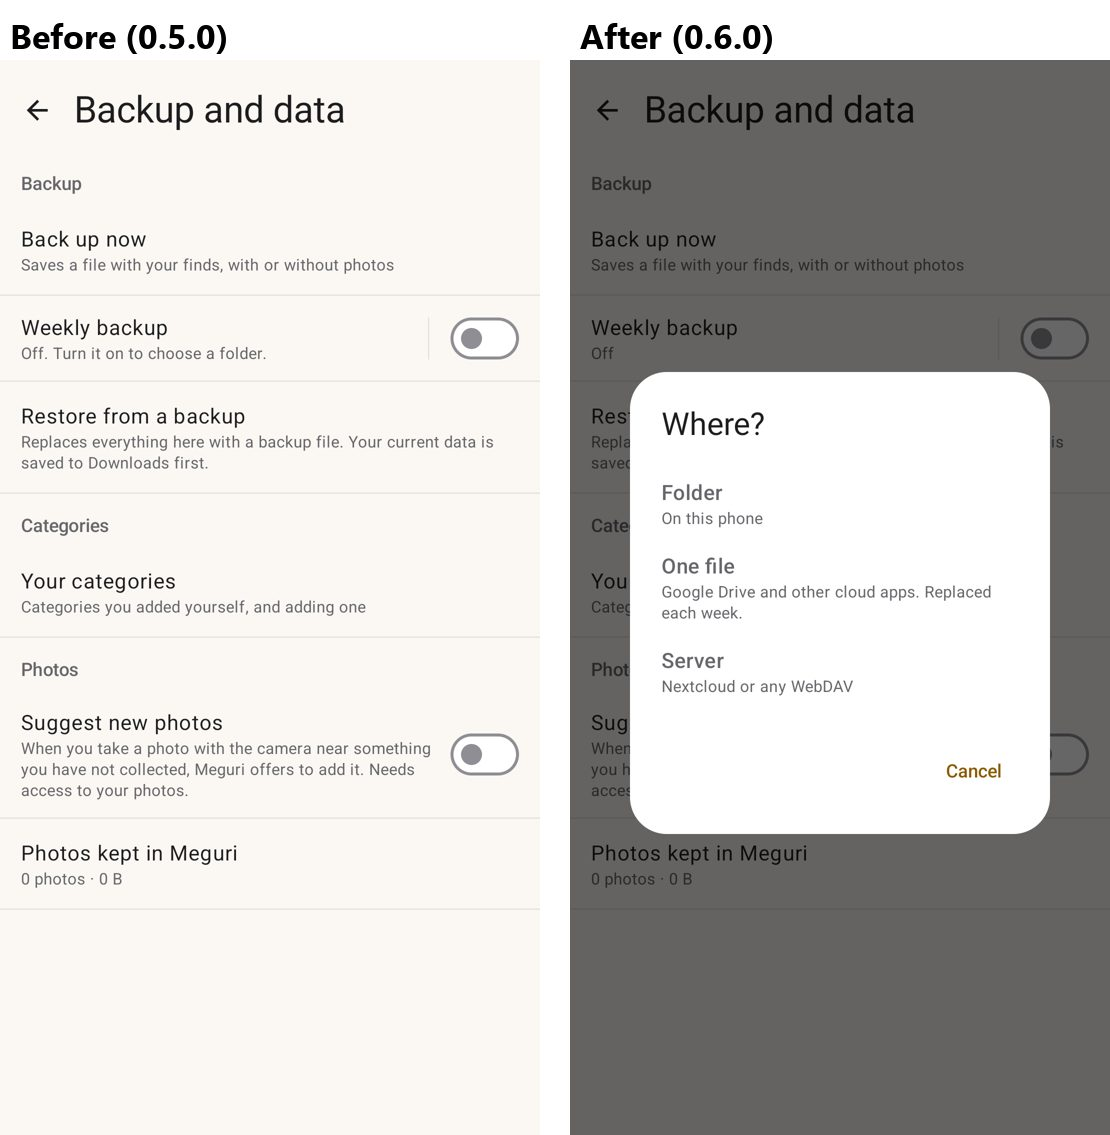
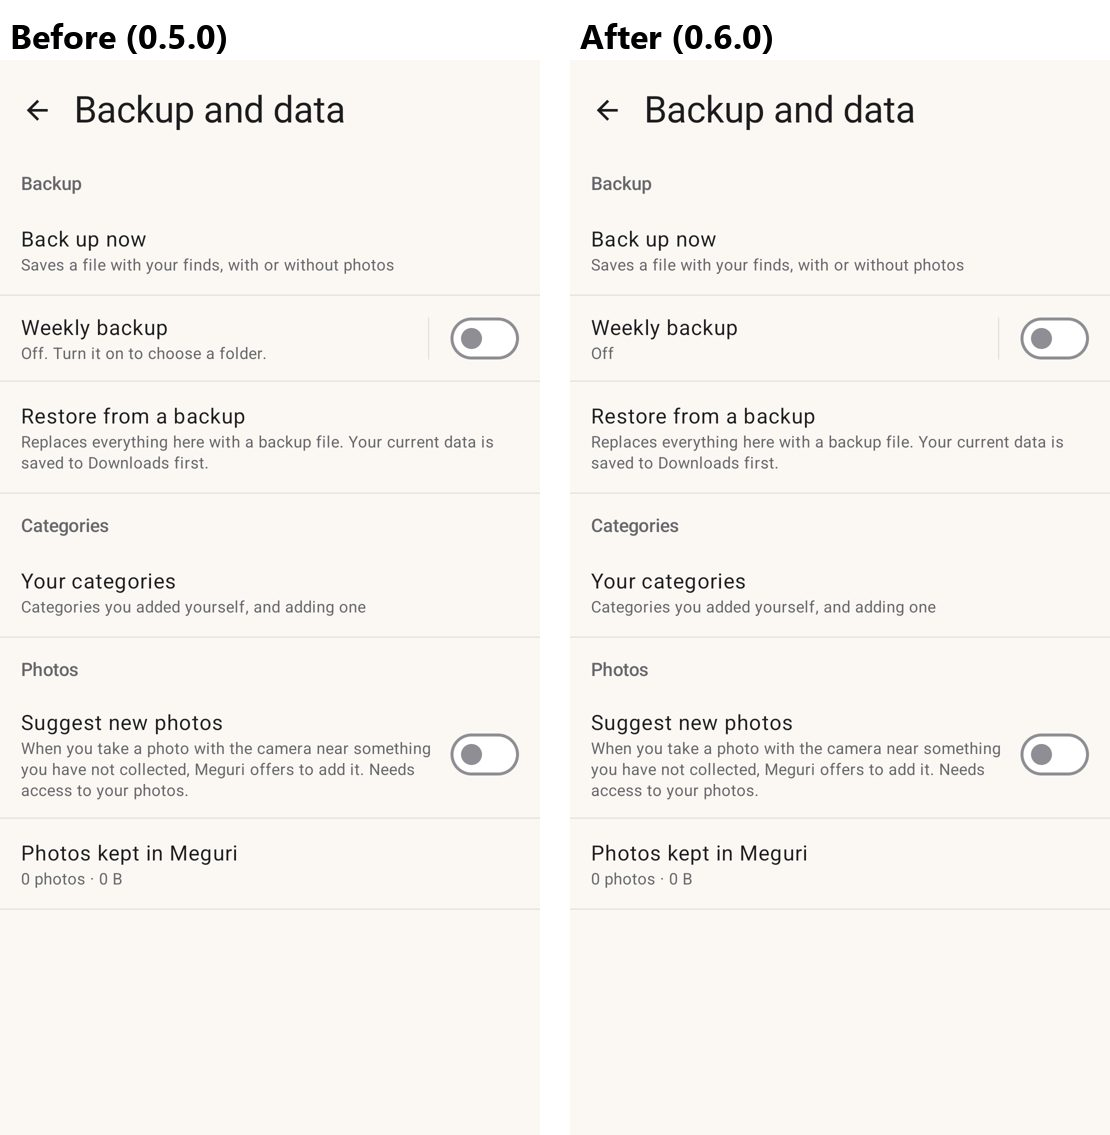
Visual changelog 0.6.0: matched pairs, new things shown on their own
Device: legion

diff --git a/docs/changelog-visual/0.6.0.md b/docs/changelog-visual/0.6.0.md
@@ -1,6 +1,6 @@
 # What changed in 0.6.0
 
-Pictures taken on an Android emulator with a phone-sized screen, before and after updating from 0.5.0 to 0.6.0 with the same data. The full list of changes is in the [changelog](../../CHANGELOG.md).
+Pictures taken on an Android emulator with a phone-sized screen, before and after updating from 0.5.0 to 0.6.0 with the same data. Each pair shows the same screen in both versions; something that didn't exist before follows as its own picture, marked New in 0.6.0. The full list of changes is in the [changelog](../../CHANGELOG.md).
 
 ## What's new, after the update
 
@@ -8,27 +8,39 @@ The first time 0.6.0 opens, it says what changed.
 
 ![What's new, after the update](0.6.0/whats-new.jpg)
 
-## Weekly backup asks where
+## Weekly backup: the same switch
 
-0.5.0 could only back up to a folder on the phone. Turning weekly backup on in 0.6.0 asks where: a folder, one file that Google Drive or another cloud app keeps (replaced each week), or your own server (Nextcloud or any WebDAV).
+The Backup page is the same in both. 0.5.0's line says turning it on means choosing a folder; that was the only place a weekly backup could go.
 
-![Weekly backup asks where](0.6.0/weekly-backup.jpg)
+![Weekly backup: the same switch](0.6.0/weekly-backup.jpg)
 
-## Report from an item's page
+## New: weekly backup asks where
 
-The ⋮ menu on an item's page lets you report availability, suggest a correction or add something new at that place. Each opens a form on GitHub with the item filled in; nothing is sent until you submit it.
+Turning the switch on in 0.6.0 now asks where: a folder (as before), one file that Google Drive or another cloud app keeps (replaced each week), or your own server (Nextcloud or any WebDAV).
 
-![Report from an item's page](0.6.0/report.jpg)
+![New: weekly backup asks where](0.6.0/weekly-backup-where.jpg)
+
+## An item's page gains a ⋮ menu
+
+The same station page in both. 0.6.0 adds the ⋮ button next to Edit at the top right; nothing else on the page changed.
+
+![An item's page gains a ⋮ menu](0.6.0/item-page.jpg)
+
+## New: report from the ⋮ menu
+
+The menu reports availability, suggests a correction or adds something new at that place. Each opens a form on GitHub with the item filled in; nothing is sent until you submit it.
+
+![New: report from the ⋮ menu](0.6.0/report.jpg)
 
 ## Save stays above the keyboard
 
-While you type, Cancel and Save stay on screen just above the keyboard, instead of being hidden below it.
+The same Edit details sheet, typing in Hours. In 0.5.0, Cancel and Save are below the keyboard, out of sight; in 0.6.0 they stay just above it.
 
 ![Save stays above the keyboard](0.6.0/keyboard.jpg)
 
 ## Privacy lists every online service
 
-Privacy now also lists GitHub, used for region downloads and for catalogue reports.
+The same Privacy page, scrolled to the services. 0.6.0 adds GitHub twice: region downloads and catalogue reports.
 
 ![Privacy lists every online service](0.6.0/privacy.jpg)
 
